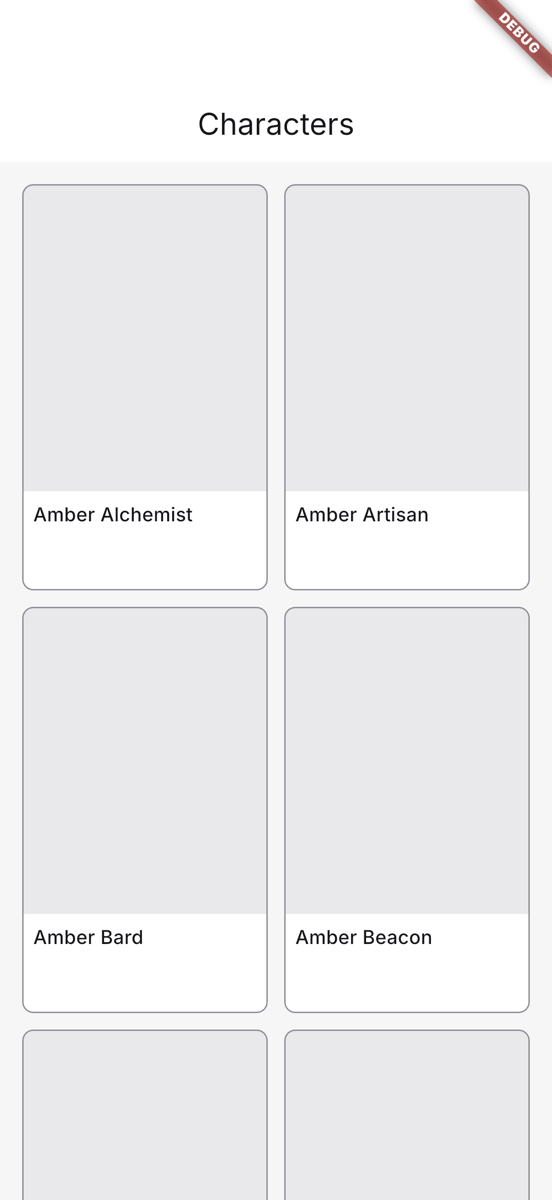
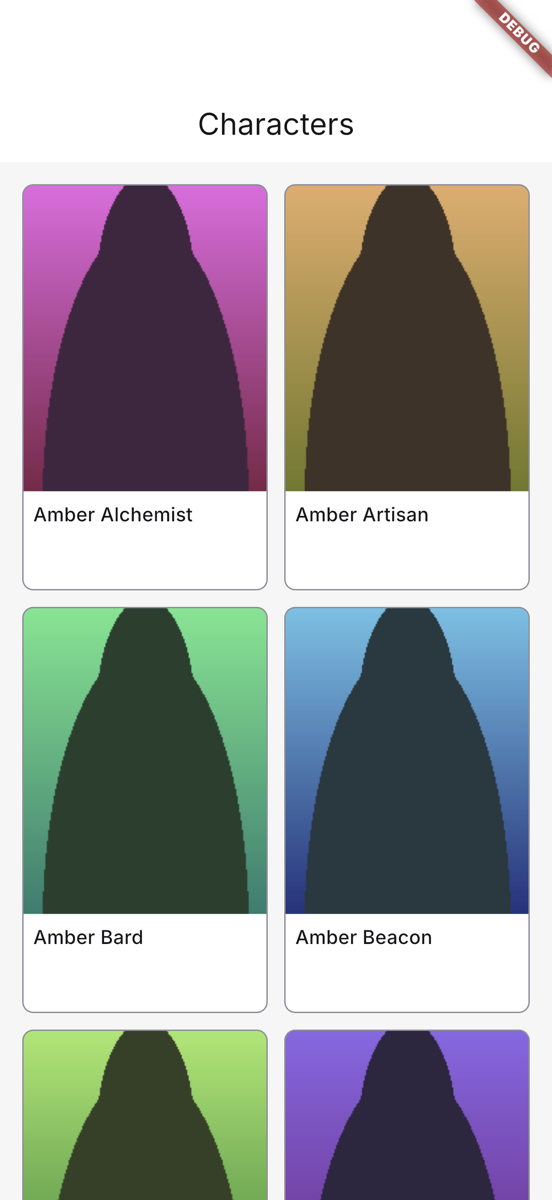
T-0033: WIP RouteTargets return flows (R15 guard)

diff --git a/app/sandbox/universe_sandbox/test/universe_sandbox_router_test.dart b/app/sandbox/universe_sandbox/test/universe_sandbox_router_test.dart
@@ -1,4 +1,5 @@
 import 'package:app_core/app_core.dart';
+import 'package:characters_list/characters_list.dart';
 import 'package:flutter/material.dart';
 import 'package:flutter_test/flutter_test.dart';
 import 'package:go_router/go_router.dart';
@@ -6,14 +7,26 @@ import 'package:mc_di/mc_di.dart';
 import 'package:universe_sandbox/src/universe_sandbox_router.dart';
 import 'package:universe_wiring/universe_wiring.dart';
 
-class _Targets implements RouteTargets {
+class _NoNavigator implements CharactersListNavigator {
   @override
-  Widget characters(BuildContext context) =>
-      const SizedBox(key: Key('fake.characters'));
+  void openCharacter(CharacterId id) {}
+}
+
+class _FakeList extends CharactersListFlow {
+  _FakeList() : super(navigator: _NoNavigator());
 
   @override
-  Widget characterDetails(BuildContext context, int id) =>
-      CharacterDetailsPlaceholderPage(id: id);
+  Widget build(BuildContext context) =>
+      const SizedBox(key: Key('fake.characters'));
+}
+
+class _Targets implements RouteTargets {
+  @override
+  CharactersListFlow characters() => _FakeList();
+
+  @override
+  CharacterDetailsPlaceholderFlow characterDetails(int id) =>
+      CharacterDetailsPlaceholderFlow(id: id);
 }
 
 void main() {

diff --git a/app/wiring/universe_wiring/lib/src/routes/route_targets_impl.dart b/app/wiring/universe_wiring/lib/src/routes/route_targets_impl.dart
@@ -1,9 +1,8 @@
 import 'package:characters_list/characters_list.dart';
-import 'package:flutter/widgets.dart';
-import 'package:universe_wiring/src/pages/character_details_placeholder_page.dart';
+import 'package:universe_wiring/src/flows/character_details_placeholder_flow.dart';
 import 'package:universe_wiring/src/routes/route_targets.dart';
 
-/// Builds each route's page from the feature barrels (R15: unannotated, so no
+/// Builds each route's flow from the feature barrels (R15: unannotated, so no
 /// generator reads it).
 class RouteTargetsImpl implements RouteTargets {
   const RouteTargetsImpl({required CharactersListNavigator charactersList})
@@ -12,10 +11,10 @@ class RouteTargetsImpl implements RouteTargets {
   final CharactersListNavigator _charactersList;
 
   @override
-  Widget characters(BuildContext context) =>
+  CharactersListFlow characters() =>
       CharactersListFlow(navigator: _charactersList);
 
   @override
-  Widget characterDetails(BuildContext context, int id) =>
-      CharacterDetailsPlaceholderPage(id: id);
+  CharacterDetailsPlaceholderFlow characterDetails(int id) =>
+      CharacterDetailsPlaceholderFlow(id: id);
 }

diff --git a/app/wiring/universe_wiring/test/routes_test.dart b/app/wiring/universe_wiring/test/routes_test.dart
@@ -7,15 +7,23 @@ import 'package:mc_di/mc_di.dart';
 import 'package:universe_wiring/universe_wiring.dart';
 
 /// Stands in for the real list (which needs the backend), so the test is
-/// about the wiring: the details page is the real placeholder.
-class _Targets implements RouteTargets {
-  @override
-  Widget characters(BuildContext context) =>
-      const SizedBox(key: Key('fake.characters'));
+/// about the wiring.
+class _FakeList extends CharactersListFlow {
+  const _FakeList({required super.navigator});
 
   @override
-  Widget characterDetails(BuildContext context, int id) =>
-      CharacterDetailsPlaceholderPage(id: id);
+  Widget build(BuildContext context) =>
+      const SizedBox(key: Key('fake.characters'));
+}
+
+class _Targets implements RouteTargets {
+  @override
+  CharactersListFlow characters() =>
+      _FakeList(navigator: diContainer<CharactersListNavigator>());
+
+  @override
+  CharacterDetailsPlaceholderFlow characterDetails(int id) =>
+      CharacterDetailsPlaceholderFlow(id: id);
 }
 
 /// Every [GoRoute] under [routes], depth first.

diff --git a/app/wiring/universe_wiring/lib/src/routes/route_targets.dart b/app/wiring/universe_wiring/lib/src/routes/route_targets.dart
@@ -1,14 +1,15 @@
-import 'package:flutter/widgets.dart';
+import 'package:characters_list/characters_list.dart';
+import 'package:universe_wiring/src/flows/character_details_placeholder_flow.dart';
 
-/// What the typed routes build (R15). The route file imports only this
-/// interface, so the code generator reads no feature barrel;
-/// `RouteTargetsImpl` (unannotated) imports the barrels and is registered by
+/// What the typed routes build (R15): each member returns a feature's `*Flow`.
+/// The route file imports only this interface; `RouteTargetsImpl`
+/// (unannotated) supplies the flows' navigators and is registered by
 /// `UniverseWiringDIInitializer`.
 abstract interface class RouteTargets {
   /// The characters list: `/characters`.
-  Widget characters(BuildContext context);
+  CharactersListFlow characters();
 
   /// The details of one character: `/characters/:id`. A placeholder until
   /// `characters_details` exists.
-  Widget characterDetails(BuildContext context, int id);
+  CharacterDetailsPlaceholderFlow characterDetails(int id);
 }

diff --git a/app/wiring/universe_wiring/lib/universe_wiring.dart b/app/wiring/universe_wiring/lib/universe_wiring.dart
@@ -7,8 +7,8 @@ export 'package:universe_wiring/src/di/di_initializer.dart'
     show UniverseNavigatorsDIInitializer;
 export 'package:universe_wiring/src/di/universe_wiring_di_initializer.dart'
     show UniverseWiringDIInitializer;
-export 'package:universe_wiring/src/pages/character_details_placeholder_page.dart'
-    show CharacterDetailsPlaceholderPage;
+export 'package:universe_wiring/src/flows/character_details_placeholder_flow.dart'
+    show CharacterDetailsPlaceholderFlow;
 export 'package:universe_wiring/src/routes/characters_routes.dart'
     show CharacterDetailsRoute, CharactersRoute;
 export 'package:universe_wiring/src/routes/route_targets.dart'

diff --git a/app/wiring/universe_wiring/lib/src/routes/characters_routes.dart b/app/wiring/universe_wiring/lib/src/routes/characters_routes.dart
@@ -19,7 +19,7 @@ class CharactersRoute extends GoRouteData with $CharactersRoute {
 
   @override
   Widget build(BuildContext context, GoRouterState state) =>
-      diContainer<RouteTargets>().characters(context);
+      diContainer<RouteTargets>().characters();
 }
 
 /// `/characters/:id`: the character's details (a placeholder for now).
@@ -30,5 +30,5 @@ class CharacterDetailsRoute extends GoRouteData with $CharacterDetailsRoute {
 
   @override
   Widget build(BuildContext context, GoRouterState state) =>
-      diContainer<RouteTargets>().characterDetails(context, id);
+      diContainer<RouteTargets>().characterDetails(id);
 }

diff --git a/app/wiring/universe_wiring/lib/src/flows/character_details_placeholder_flow.dart b/app/wiring/universe_wiring/lib/src/flows/character_details_placeholder_flow.dart
@@ -1,8 +1,9 @@
 import 'package:flutter/material.dart';
 
-/// Stands in for `characters_details` at `/characters/:id`.
-class CharacterDetailsPlaceholderPage extends StatelessWidget {
-  const CharacterDetailsPlaceholderPage({required this.id, super.key});
+/// Stands in for `characters_details`' flow at `/characters/:id`, so a route
+/// builds a `*Flow` as R15 asks. Replaced by that feature's flow later.
+class CharacterDetailsPlaceholderFlow extends StatelessWidget {
+  const CharacterDetailsPlaceholderFlow({required this.id, super.key});
 
   final int id;
 

diff --git a/documents/evidence/T-0033/engineer/mini_client/e2e-summary.md b/documents/evidence/T-0033/engineer/mini_client/e2e-summary.md
@@ -8,18 +8,18 @@
 | Project | `/private/tmp/claude-501/-Users-emililiev-orca-workspaces-mini-client-tang/d152dd30-eec6-4962-a3ba-bd2883014b3a/scratchpad/e2e-mini/app/mini_client` |
 | Device | iPhone 17 Pro (`com.apple.CoreSimulator.SimDeviceType.iPhone-17-Pro`) |
 | Runtime | iOS 26.2 (`com.apple.CoreSimulator.SimRuntime.iOS-26-2`) |
-| Simulator | `mc-T-0033-engineer-75845` |
-| Simulator UDID | `ED3DBE24-C956-4F13-9B6A-3A5C8083CA7B` |
+| Simulator | `mc-T-0033-engineer-80966` |
+| Simulator UDID | `19EB0912-95CD-47EE-948A-2A64E30057C4` |
 | Runner | `fvm flutter drive --driver={driver} --target={target} -d {udid}` |
-| Started | 2026-11-25T08:51:30Z |
-| Finished | 2026-11-25T08:58:24Z |
+| Started | 2026-11-25T08:59:01Z |
+| Finished | 2026-11-25T09:00:17Z |
 
 ## Targets
 
 | Target | Result | Duration | Log |
 |---|---|---|---|
-| `integration_test/characters_deeplink_test.dart` | PASS | 373 s | [e2e-characters_deeplink_test.log](e2e-characters_deeplink_test.log) |
-| `integration_test/characters_journey_test.dart` | PASS | 21 s | [e2e-characters_journey_test.log](e2e-characters_journey_test.log) |
+| `integration_test/characters_deeplink_test.dart` | PASS | 34 s | [e2e-characters_deeplink_test.log](e2e-characters_deeplink_test.log) |
+| `integration_test/characters_journey_test.dart` | PASS | 25 s | [e2e-characters_journey_test.log](e2e-characters_journey_test.log) |
 
 ## Screenshots
 

diff --git a/documents/evidence/T-0033/engineer/T-0031-AC6_closure.md b/documents/evidence/T-0033/engineer/T-0031-AC6_closure.md
@@ -1,0 +1,24 @@
+# T-0031-AC6: McMediaScope moved, mc_media pure
+
+## T-0030 closure check re-run: PASS
+```
+## //utility/mc_paging:mc_paging (3034 targets in the closure)
+Flutter markers: none
+## //utility/mc_media:mc_media (1135 targets in the closure)
+Flutter markers: none
+## positive control: //utility/mc_ds_media:mc_ds_media
+Flutter markers: @@ai_rules_flutter++flutter+pub_deps__flutter//:flutter
+**PASS T-0030-AC7**
+```
+## mc_media top-level barrels: ./mc_media.dart 
+## stale references to the old barrel or library
+```
+none
+```
+## production mc_ds_* targets checked (9):  //utility/mc_ds_buttons:mc_ds_buttons //utility/mc_ds_cards:mc_ds_cards //utility/mc_ds_feedback:mc_ds_feedback //utility/mc_ds_layout:mc_ds_layout //utility/mc_ds_lists:mc_ds_lists //utility/mc_ds_media:mc_ds_media //utility/mc_ds_testing:mc_ds_testing //utility/mc_ds_theme:mc_ds_theme //utility/mc_ds_tokens:mc_ds_tokens
+```
+fixtures dependencies: none
+```
+## positive control: //utility/mc_ds_media:image_test (a test) depends on: //utility/mc_fixtures_media:asset_files //utility/mc_fixtures_media:assets/characters/000.png //utility/mc_fixtures_media:assets/characters/001.png 
+
+**PASS T-0031-AC6**

diff --git a/documents/evidence/T-0033/engineer/sandbox/e2e-summary.md b/documents/evidence/T-0033/engineer/sandbox/e2e-summary.md
@@ -1,0 +1,27 @@
+# E2E summary: T-0033 (engineer)
+
+| Field | Value |
+|---|---|
+| Result | **PASS** |
+| Task | T-0033 |
+| Role | engineer |
+| Project | `/private/tmp/claude-501/-Users-emililiev-orca-workspaces-mini-client-tang/d152dd30-eec6-4962-a3ba-bd2883014b3a/scratchpad/e2e-sandbox/app/sandbox/universe_sandbox` |
+| Device | iPhone 17 Pro (`com.apple.CoreSimulator.SimDeviceType.iPhone-17-Pro`) |
+| Runtime | iOS 26.2 (`com.apple.CoreSimulator.SimRuntime.iOS-26-2`) |
+| Simulator | `mc-T-0033-engineer-82537` |
+| Simulator UDID | `95C6C2DE-B2BA-4FDA-9FFA-1507DB0B9EF9` |
+| Runner | `fvm flutter drive --driver={driver} --target={target} -d {udid}` |
+| Started | 2026-11-25T09:00:21Z |
+| Finished | 2026-11-25T09:01:08Z |
+
+## Targets
+
+| Target | Result | Duration | Log |
+|---|---|---|---|
+| `integration_test/characters_sandbox_test.dart` | PASS | 31 s | [e2e-characters_sandbox_test.log](e2e-characters_sandbox_test.log) |
+
+## Screenshots
+
+| File | Target | Note |
+|---|---|---|
+| [01_sandbox_characters.png](01_sandbox_characters.png) | `integration_test/characters_sandbox_test.dart` | downscaled from 1206x2622 |
